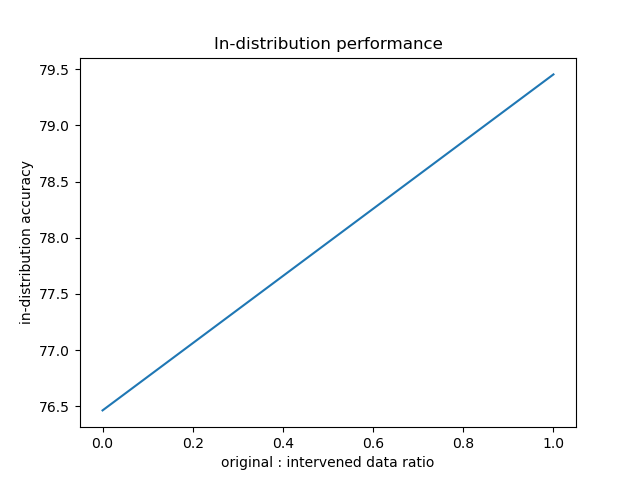
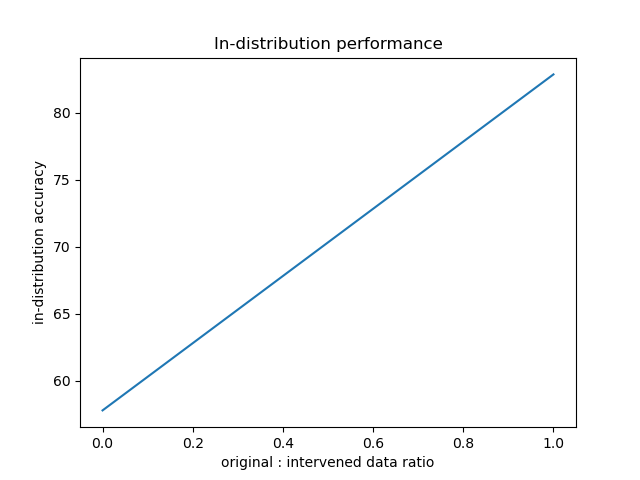
0.35

diff --git a/CelebA/evaluate_resnet_classification.py b/CelebA/evaluate_resnet_classification.py
@@ -232,7 +232,7 @@ color_mnist_train_intervened_set = datasets.ImageFolder(train_intervened, compos
 
 
 
-ORIG_INTERV_RATIOs = np.linspace(0,1,2) #how much original data : intervened data
+ORIG_INTERV_RATIOs = np.linspace(0,1,10) #how much original data : intervened data
 ablation_loaders = []
 for ratio in ORIG_INTERV_RATIOs:
     split_n = int(ratio * len(color_mnist_train_set))
@@ -261,15 +261,15 @@ combined_trainloader = torch.utils.data.DataLoader(
                                                         color_mnist_combined_set, 
                                                         batch_size=BATCH_SIZE, shuffle=True)
 
-print('train baseline')
-cnn_baseline = ResNet()
-cnn_baseline = cnn_baseline.create_model().cuda()
-fit(cnn_baseline, color_mnist_trainloader)
+# print('train baseline')
+# cnn_baseline = ResNet()
+# cnn_baseline = cnn_baseline.create_model().cuda()
+# fit(cnn_baseline, color_mnist_trainloader)
 
-print('train intervened')
-cnn_intervened = ResNet()
-cnn_intervened = cnn_intervened.create_model().cuda()
-fit(cnn_intervened, intervened_trainloader)
+# print('train intervened')
+# cnn_intervened = ResNet()
+# cnn_intervened = cnn_intervened.create_model().cuda()
+# fit(cnn_intervened, intervened_trainloader)
 
 print("training ablation models")
 ablation_models = []
@@ -279,26 +279,26 @@ for loader in ablation_loaders:
     fit(cnn_augment, loader)
     ablation_models.append(cnn_augment) 
 
-print("BASELINE")
-in_pred, _ = evaluate(cnn_baseline, testloader_indist)
-print("OOD")
-out_pred, _ = evaluate_ood(cnn_baseline, testloader_ood)
-utils.get_and_print_results(in_pred,out_pred,"dummy_ood","dummy_method")
-print("------------------------")
-print("SPURIOUS OOD")
-sp_out_pred, _ = evaluate_ood(cnn_baseline, testloader_spurious_ood)
-utils.get_and_print_results(in_pred,sp_out_pred,"dummy_ood","dummy_method")
+# print("BASELINE")
+# in_pred, _ = evaluate(cnn_baseline, testloader_indist)
+# # print("OOD")
+# # out_pred, _ = evaluate_ood(cnn_baseline, testloader_ood)
+# # utils.get_and_print_results(in_pred,out_pred,"dummy_ood","dummy_method")
+# print("------------------------")
+# print("SPURIOUS OOD")
+# sp_out_pred, _ = evaluate_ood(cnn_baseline, testloader_spurious_ood)
+# utils.get_and_print_results(in_pred,sp_out_pred,"dummy_ood","dummy_method")
 
-print("######################")
-print("intervened")
-in_pred, in_actual = evaluate(cnn_intervened, testloader_indist)
-print("OOD")
-out_pred, out_actual = evaluate_ood(cnn_intervened, testloader_ood)
-utils.get_and_print_results(in_pred,out_pred,"dummy_ood","dummy_method")
-print("------------------------")
-print("SPURIOUS OOD")
-sp_out_pred, _ = evaluate_ood(cnn_intervened, testloader_spurious_ood)
-utils.get_and_print_results(in_pred,sp_out_pred,"dummy_ood","dummy_method")
+# print("######################")
+# print("intervened")
+# in_pred, in_actual = evaluate(cnn_intervened, testloader_indist)
+# # print("OOD")
+# # # out_pred, out_actual = evaluate_ood(cnn_intervened, testloader_ood)
+# # utils.get_and_print_results(in_pred,out_pred,"dummy_ood","dummy_method")
+# print("------------------------")
+# print("SPURIOUS OOD")
+# sp_out_pred, _ = evaluate_ood(cnn_intervened, testloader_spurious_ood)
+# utils.get_and_print_results(in_pred,sp_out_pred,"dummy_ood","dummy_method")
 
 print("######################")
 print("ABLATION")

diff --git a/CelebA/split_train_test.py b/CelebA/split_train_test.py
@@ -12,40 +12,40 @@ ood = {'file': [], 'label': []}
 
 df_data = pd.read_csv(os.path.join(celebA_dir, "celebA_split.csv"))
 
-images_train = [f_ for f_ in os.listdir(os.path.join(celebA_dir, "train_sq")) if '.png' in f_]
-images_val = [f_ for f_ in os.listdir(os.path.join(celebA_dir, "val_sq")) if '.png' in f_]
-images_indist_test = [f_ for f_ in os.listdir(os.path.join(celebA_dir, "indist_test_sq")) if '.png' in f_]
+images_train = [f_ for f_ in os.listdir(os.path.join(celebA_dir, str(constants.r), "train_sq")) if '.png' in f_]
+images_val = [f_ for f_ in os.listdir(os.path.join(celebA_dir, str(constants.r), "val_sq")) if '.png' in f_]
+images_indist_test = [f_ for f_ in os.listdir(os.path.join(celebA_dir, str(constants.r), "indist_test_sq")) if '.png' in f_]
 # images = images_train + images_indist_test
 for i, file_ in enumerate(images_train):
     image_id = file_.split("_")[-1][:-4] + ".jpg"
     label = df_data.loc[df_data["image_id"] == image_id]["Gray_Hair"].iloc[0]
-    train['file'].append(os.path.join(celebA_dir, "train_sq", file_))
+    train['file'].append(os.path.join(celebA_dir, str(constants.r), "train_sq", file_))
     train['label'].append(label)
 
 for i, file_ in enumerate(images_val):
     image_id = file_.split("_")[-1][:-4] + ".jpg"
     label = df_data.loc[df_data["image_id"] == image_id]["Gray_Hair"].iloc[0]
-    train['file'].append(os.path.join(celebA_dir, "val_sq", file_))
+    train['file'].append(os.path.join(celebA_dir,str(constants.r), "val_sq", file_))
     train['label'].append(label)
 
 for i, file_ in enumerate(images_indist_test):
     image_id = file_.split("_")[-1][:-4] + ".jpg"
     label = df_data.loc[df_data["image_id"] == image_id]["Gray_Hair"].iloc[0]
-    indist_test['file'].append(os.path.join(celebA_dir, "indist_test_sq", file_))
+    indist_test['file'].append(os.path.join(celebA_dir,str(constants.r), "indist_test_sq", file_))
     indist_test['label'].append(label)
-spurious_images = [f_ for f_ in os.listdir(os.path.join(celebA_dir, "spurious_ood_sq")) if '.png' in f_]
+spurious_images = [f_ for f_ in os.listdir(os.path.join(celebA_dir, str(constants.r), "spurious_ood_sq")) if '.png' in f_]
 for i, file_ in enumerate(spurious_images):
     image_id = file_.split("_")[-1][:-4] + ".jpg"
-    ood['file'].append(os.path.join(celebA_dir, "spurious_ood_sq", file_))
+    ood['file'].append(os.path.join(celebA_dir,str(constants.r), "spurious_ood_sq", file_))
     ood['label'].append(-1)
 
 
 train = pd.DataFrame(train)
 indist_test = pd.DataFrame(indist_test)
 ood = pd.DataFrame(ood)
-train.to_csv(os.path.join(celebA_dir, 'train.csv'))
+train.to_csv(os.path.join(celebA_dir, str(constants.r), 'train.csv'))
 
 
 ood_test = ood.sample(n=indist_test.shape[0])
 test_files = pd.concat([indist_test, ood_test])
-test_files.to_csv(os.path.join(celebA_dir, 'test.csv'))
+test_files.to_csv(os.path.join(celebA_dir, str(constants.r), 'test.csv'))

diff --git a/CelebA/copy_images.py b/CelebA/copy_images.py
@@ -4,8 +4,8 @@ import pandas as pd
 import constants
 
 r = constants.r
-train_file = f"/nobackup/dyah_roopa/temp/Spurious_OOD/datasets/celebA/train.csv"
-test_file = f"/nobackup/dyah_roopa/temp/Spurious_OOD/datasets/celebA/test.csv"
+train_file = f"/nobackup/dyah_roopa/temp/Spurious_OOD/datasets/celebA/{str(constants.r)}/train.csv"
+test_file = f"/nobackup/dyah_roopa/temp/Spurious_OOD/datasets/celebA/{str(constants.r)}/test.csv"
 
 target_train = f"/nobackup/dyah_roopa/CelebA/train_{r}"
 target_test = f"/nobackup/dyah_roopa/CelebA/test_{r}"
@@ -19,7 +19,7 @@ if not os.path.isdir(target_test):
 for _, row in pd.read_csv(train_file).iterrows():
     filename = row['file']
     target_dir = os.path.join(target_train,str(row['label']))
-    
+    # print(target_dir)
     if not os.path.isdir(target_dir):
         os.mkdir(target_dir)
     shutil.copy(filename, os.path.join(target_dir, filename.split('/')[-1]))

diff --git a/CelebA/evaluate_cnn_classification.py b/CelebA/evaluate_cnn_classification.py
@@ -193,7 +193,7 @@ if not os.path.isdir(results_dir):
     os.mkdir(results_dir)
 
 test_indist = f'/nobackup/dyah_roopa/CelebA/test_{r}/in_dist/'
-test_ood = '/nobackup/dyah_roopa/temp/Spurious_OOD/datasets/ood_datasets/LSUN_resize/'
+test_ood = '/nobackup/dyah_roopa/temp/Spurious_OOD/datasets/ood_datasets/CUB_square/'
 spurious_ood = f'/nobackup/dyah_roopa/CelebA/test_{r}/spurious_ood/'
 
 train = f'/nobackup/dyah_roopa/CelebA/train_{r}/'
@@ -213,7 +213,7 @@ color_mnist_train_intervened_set = datasets.ImageFolder(train_intervened, compos
 
 
 
-ORIG_INTERV_RATIOs = np.linspace(0,1,2) #how much original data : intervened data
+ORIG_INTERV_RATIOs = np.linspace(0,1,10) #how much original data : intervened data
 ablation_loaders = []
 for ratio in ORIG_INTERV_RATIOs:
     split_n = int(ratio * len(color_mnist_train_set))

diff --git a/CelebA/constants.py b/CelebA/constants.py
@@ -1,1 +1,1 @@
-r = 0.25
+r = 0.35
